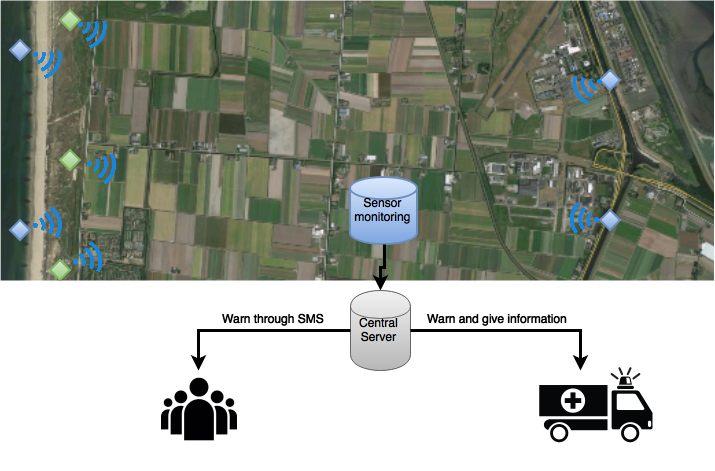
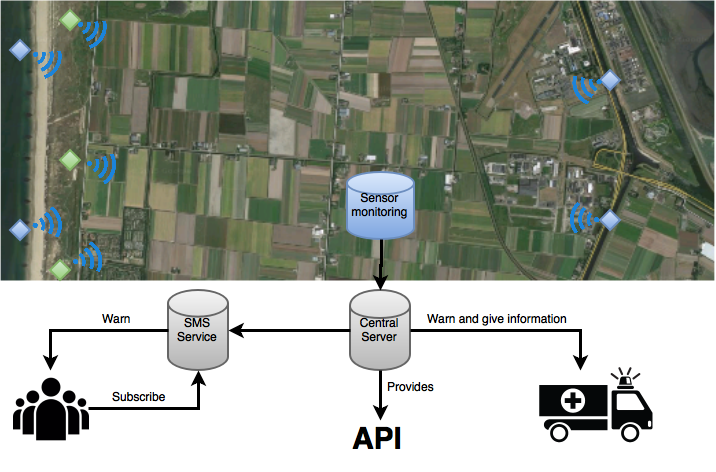
Changed a lot of stuff

diff --git a/2-business/business.tex b/2-business/business.tex
@@ -9,15 +9,15 @@ After this the product and its stakeholders will be explained. This chapter is c
 
 \section{Business opportunity}
 There are many natural disasters happening each year all over the world. Each year these disasters take lives, destroys a lot of properties, and cause social disturbance.
-Looking at, for example, the Indian ocean's tsunami in 2004, it looks that the damage could have been significantly reduced if the necessary people were warned\cite{tsunami10ylater, tsunamiwarnsavelives}.  %\We should add a reference here
+Looking for example at the Indian ocean's tsunami in 2004, it looks that the damage could have been significantly reduced if the necessary people were warned\cite{tsunami10ylater, tsunamiwarnsavelives}.  %\We should add a reference here
 
 In the future more floods are expected because of global warming\cite{climateincrease}. The rise of the sea level is a consequence of global warming. Another consequence is the increase of extreme weather events, for instance heavy rainfall. It is expected that natural disasters will cause 300 billion in losses annually in the upcoming decade\cite{disastercosts}. This justifies to invest a high amount of money to minor the losses of a flood. Not only the losses in terms of money, but more importantly lives, and also social impact.
 
-The increasing thread of the floods is the basis for our vision. \CompanyName has the following vision: No people in the world will be harmed by floods. They want to find solutions so floods does not take lives, cause social consequences, and damage properties.   
+The increasing thread of the floods is the basis for our vision. \CompanyName has the following vision: No people in the world will be harmed by floods. We want to find solutions so floods does not take lives, cause social consequences, and damage properties.   
 
-The mission of \CompanyName is design of a flood warning system in order to save lives and reduce costs. A next generation reliable flood monitoring and warning system will help lower the catastrophic impact of floods. The system will imminent floods and send out people in order to reduce the impact of a flood. In the future the system should be able to monitor other kinds of disasters and send out warnings. 
+The mission of \CompanyName is to design a flood warning system in order to save lives and reduce costs. A next generation reliable flood monitoring and warning system will help lower the catastrophic impact of floods. The system will predict imminent floods and send out people in order to reduce the impact of a flood. In the future the system should be able to monitor other kinds of disasters and send out warnings. 
 
-The Netherlands is a country that is situated for large parts(26\%) under the sea level\cite{holland}. Using dikes and other solutions they protect their country against the water. The increasing sea level causes extreme danger in the Netherlands. It is important that they can monitor how dangerous imminent floods are and take action if things are looking to wrong. If things go wrong people within the area should be warned in order to take action and safe their self, others, and their belongings.
+The Netherlands is a country that is situated for large parts(26\%) under the sea level\cite{holland}. Using dikes and other solutions they protect their country against the water. The increasing sea level causes extreme danger in the Netherlands. It is important that they can monitor how dangerous imminent floods are and take action if things are looking to wrong. These properties of the Netherlands make it an ideal market to start deploying our system. %If things go wrong, people within the area should be warned in order to take action and safe their self, others, and their belongings.
 % Maybe put the previous paragraph to the context?????
 
 \section{Business rationale}
@@ -85,10 +85,10 @@ It is important to evaluate the strengths and weaknesses of \CompanyName{}. Usin
 \newcommand{\Threats}{
 \SwotItems{
 	\item High hardware costs
-	\item Competitors will enter the market because of growing market
-	\item New competitors will enter the market
-	\item Climate change will forces the system to be improved over time.
-	\item Changes of the external systems that our system uses to properly communicate.
+	\item New competitors will enter the market because of a growing market
+	%\item New competitors will enter the market
+	\item Climate change will force the system to be improved over time
+	\item External parties that affect our system could change or stop
 	%\item The sizes of certain area{'}s to monitor can be too big to get a good and reliable view of them
 }
 }
@@ -147,7 +147,7 @@ The first subsystem (monitor the state of dykes and water levels) will consist o
 
 The second subsystem (analyze the data from the monitoring part to detect imminent floods) will analyze all the data from the sensors and data from weather forecasting service. Based on this data an algorithm will monitor continuously if there are dangerous situations.
 
-The third subsystem (warn governmental organizations and inhabitants in the danger area) will send warning messages when the algorithm identified a dangerous situations. The safety region \ign{---in Dutch Veiligheidsregio--- }will receive a warning message that an area is in danger. Information like position, area, sort of danger and amount of danger will be send. The safety region will be responsible to take action based on this information. Inhabitants can receive warnings via sirens, mobile phone, radio, television, and by UAV.
+The third subsystem (warn governmental organizations and inhabitants in the danger area) will send warning messages when the algorithm identified a dangerous situations. The safety region \ign{---in Dutch Veiligheidsregio--- }will receive a warning message that an area is in danger. Information like position, area, sort of danger and amount of danger will be send. The safety region will be responsible to take action based on this information. Inhabitants can receive warnings via sirens, mobile phone, radio, television. %, and by UAV
 
 The last subsystem (provides data to third party developers) will publish data that other companies can use to build applications. The data that will be published is mainly for provide guidance for emergency services and people which are in the dangerous area. 
 
@@ -181,6 +181,7 @@ The software architecture team of \CompanyName consists of six members. Creating
 \subsection{Development costs}
 The costs of developing the system is approximated in table \ref{table:develop-costs}, shown below.
 \newline
+
 \begin{table}[H]
 \pgfplotstabletypeset[%
 KeyValue,
@@ -224,7 +225,7 @@ The development is done by \CompanyName self. Each member of the project team as
 	Description & Costs \\
 	Hours & 9770 \\
 	Cost per hour & \EUR{}50 \\
-	Total cost & \EUR{}488,500 \\
+	Total cost & \EUR{}488.500 \\
 }\tdevcost
 
 \begin{table}[H]
@@ -236,7 +237,7 @@ The development is done by \CompanyName self. Each member of the project team as
 \end{table}
 
 \subsection{Hardware costs}
-Around 17,000 kilometres of dikes protect the Netherlands against flooding \cite{DMC}. 
+Around 17.000 kilometres of dikes protect the Netherlands against flooding \cite{DMC}. 
 The monitoring system consists of MEMS sensor modules (e.g. GeoBeads) with a claimed life time of 10 years, which are installed with conventional CPT push-in techniques. Three sensors are installed per cross-section and a cross-section is installed every 100 m.
 Each CPT push-in costs about \EUR{}200 per sensor (Feitsma,2002)\cite{TUDelftPHD}.%pp126
 The table below shows of this data.
@@ -258,13 +259,13 @@ The table below shows of this data.
 \end{table}
 
 This results in an installation cost of:
-Installation cost per km$=(350+200)\cdot10\cdot3\cdot(1+0.2)=\EUR{}16,830$\\
-Installation cost$=100*16,830=1.683,000$
+Installation cost per km$=(350+200)\cdot10\cdot3\cdot(1+0.2)=\EUR{}16.830$\\
+Installation cost$=100*16.830=1.683.000$
 
 \newcommand{\installationCosts}{1.683.000}
 
 The yearly maintenance and operation cost will be calculated as being a fraction of the installment cost.\\ 
-Maintenance cost$=0.2\cdot1,683,000=336,600$ per year %
+Maintenance cost$=0.2\cdot1.683.000=336.600$ per year %
 
 The system then needs several servers:
 \begin{itemize}
@@ -275,18 +276,18 @@ The system then needs several servers:
 	\item {Guidance server}	
 \end{itemize}
 
-There are four servers and each server costs $\EUR{}1,500$. To enhance the availability, the servers will be redundantly set up four times. Resulting in a hardware cost for the servers of\\
-Server cost$=4*1500*4=24,00$. 
+There are four servers and each server costs $\EUR{}1.500$. To enhance the availability, the servers will be redundantly set up four times. Resulting in a hardware cost for the servers of\\
+Server cost$=4*1500*4=24.000$. 
 The total hardware costs is shown in the table below.
 \begin{table}[H]
 	\pgfplotstabletypeset[
 		Costs
 	]{
 	Description & Cost\\
-	Installation costs & $\EUR{}$1,683,000\\
-	Maintenance costs & $\euro{}$336,600\\
+	Installation costs & $\EUR{}$1.683.000\\
+	Maintenance costs & $\euro{}$336.600\\
 	Server costs & $\euro{}$24.000\\
-	Total cost & $\euro{}$2,443,600\\
+	Total cost & $\euro{}$2.443.600\\
 }
 \caption{Total hardware cost}
 \label{table:total-hardw-cost}
@@ -300,23 +301,23 @@ The total costs for the system is calculated in the table below.\\
 Costs
 ]{%
 	Description & Cost\\
-	Software Architecture costs & \EUR{}157,500\\
+	Software Architecture costs & \EUR{}157.500\\
 	Development costs & $\euro{}$488.500\\
-	Hardware costs & $\euro{}$2,443,600\\
-	Total cost & $\euro{}$3,089,600\\
+	Hardware costs & $\euro{}$2.443.600\\
+	Total cost & $\euro{}$3.089.600\\
 }
 \caption{Total cost of the system}
 \label{table:totalcosts}
 \end{table}
-So the total costs of the system is \euro{}3,089,600\\
+So the total costs of the system is \euro{}3.089.600\\
 % Guntur: Doubled financial model sections?
 % \section{Financial model}
 % The financial model will be a low product price. This in order to price the product low in the market. A service description for maintenance will be offered. Also updates will be sold to the customer
 
 \section{Competitors}
-Siemens is a competitor that already has developed a flood-warning system in Belgium in 2006. When the system detects a imminent flood it sends a SMS to people that live near the rivers in order to warn them. The system is implemented in a small region, which consists of only 3 rivers. The total cost for this system were \euro{}230.000. Later on they continued engineering the system. The system uses sensor which measures: temperature, water pressure, and shifting. They participated with this system in the Urban Flood project from the EU. The strong point of this competitor is that they already have funding and also experience with building such a system. Siemens is the main competitor for \CompanyName{}. Their strength is that they already have a proven system in Belgium and have a lot of experience through participating in flood monitoring research projects. The opportunity for \CompanyName{} is Engineering a flexible system that can be used in the future for other kind of disasters. Further on by selling the product at a low selling price and profit on the maintenance work and upgrades the Netherlands will be interesting in using the product.
+Siemens is a competitor that already has developed a flood-warning system in Belgium in 2006. When the system detects an imminent flood it sends a SMS to people that live near the rivers in order to warn them. The system is implemented in a small region, which consists of only 3 rivers. The total costs for this system were \euro{}230.000. Later on they continued engineering the system. The system uses sensor which measures: temperature, water pressure, and shifting. They participated with this system in the Urban Flood project from the EU. The strong point of this competitor is that they already have funding and also experience with building such a system. Siemens is the main competitor for \CompanyName{}. Their strength is that they already have a proven system in Belgium and have a lot of experience through participating in flood monitoring research projects. The opportunity for \CompanyName{} is to engineer a flexible system that can be used in the future for other kind of disasters. Further on by selling the product at a low selling price and profit on the maintenance work and upgrades the Netherlands will be interesting in using the product.
 
-Further there are Universities that do research on flood warning systems. At the Malaysian Institute Information Technology they developed a product prototype of a system called Intelligent Flood Information System via SMS. Waterlevel sensors are the only one they used. When their is a flood they send a warning SMS to people that are within the area. In the future this could become a competitor if they create a start-up or sell the idea to a company.  
+Further there are Universities that do research on flood warning systems. At the Malaysian Institute Information Technology they developed a product prototype of a system called Intelligent Flood Information System via SMS. Waterlevel sensors are the only one they used. When there is a flood they send a warning SMS to people that are within the area. In the future this could become a competitor if they create a start-up or sell the idea to a company.  
 
 %\Joris can you put references in?
 

diff --git a/4-analysis/analysis.tex b/4-analysis/analysis.tex
@@ -1,7 +1,7 @@
 %!TEX root = ../report.tex
 \chapter{Analysis}
 \label{ch:analysis}
-This chapter describes the analysis. It lists the assumptions made about the system and it's environment. Next, an overview of the high-level design decisions is given.
+This chapter describes the analysis of the system. It lists the assumptions that are made about the system and its environment. After this, an overview of the high-level design decisions is given.
 
 \section{Assumptions}
 There are several assumptions made about the system and it's environment:
@@ -10,15 +10,13 @@ There are several assumptions made about the system and it's environment:
 	\begin{enumerate}
 	  \item The safety region / government has means to alert citizens in an area to evacuate.
 	  \item The safety region is informed about our system and will alert citizens if needed when our system alerts the safety region.
-	  \item People who are subscribed for flood warnings/guidance have a mobile phone that can receive text messages and MMS.
+	  \item People who are subscribed for flood warnings/guidance have a mobile phone that can receive text messages.
 	  \item Sensors can be placed in the water ways and dikes in locations where they can provide representative measurements.
 	  \item Information is available to the system with regards to the population density and terrain height in different areas.
-	  \item A flood will not reach further than 50 km. % see SEC-7
 	  \item Supplying information about the areas affected by the flood in a resolution of 5 by 5 km (as described in \ref{fr:10}) is sufficient for the government/safety region to make decisions regarding alerting and evacuating citizens.
 	  \item It is possible to predict the expected water level up to 12 hours in the future.
 	  \item A weather forecasting API is available that provides precipitation and wind data.
 	  \item The sensors are (in some way) connected to the system.
-	  \item The safety region provides an API, which can be used by the system to warn the safety region.
 	\end{enumerate}
 }
 
@@ -72,7 +70,7 @@ A higher score means a more favourable result. For example, a high score for cos
 
 \begin{table}[h]
 \begin{tabular}{L{0.2\textwidth} L{0.6\textwidth}}
-    \textbf{Name} 			& \textbf{Linux} \\ \toprule
+    \textbf{Name} 			& \textbf{Operating system} \\ \toprule
     \textbf{Decision} 		& \textbf{DEC-}\textbf{\nextNrRef{dn}} \\ \midrule \midrule
     \textbf{Status} 		& \textbf{New} \\ \midrule
     \textbf{Problem/Issue} 	& The warning system software for the natural disasters need a platform to work on.  \\ \midrule
@@ -89,7 +87,7 @@ A higher score means a more favourable result. For example, a high score for cos
 									Weight 				& 1 & 1 & 1 & 1 & 1 & 1 & 1 & \\ \hline
 									Linux 			 	& 4 & 4 & 4 & 4 & 4 & 4 & 5 & 29 \\
 									Windows 			& 3 & 2 & 3 & 2 & 3 & 3 & 1 & 17 \\
-									OpenBSD 		 	& 5 & 5 & 4 & 3 & 5 & 4 & 3 & 29 \\
+									OpenBSD 		 	& 5 & 4 & 4 & 3 & 5 & 4 & 3 & 28 \\
 								\end{tabular} \\
     \\ \bottomrule
 \end{tabular}
@@ -110,6 +108,10 @@ A higher score means a more favourable result. For example, a high score for cos
     \textbf{Decision} 		&  The sensors will send their data to the system using mobile broadband. Using cellphone towers to communicate with the system.\\ \midrule
     \textbf{Alternatives} 	& \textit{Landline}\\ 
     						& Connecting the sensors to the telephone network and use that network to communicate with the server.\\
+    						& \textit{Satellite}\\ 
+    						& Set up a satellite connection between the sensors and the system.\\
+    						& \textit{Direct lines}\\ 
+    						& Connection the sensors to the system by drawing a cable from all sensors to the system.\\
     						\midrule
     \textbf{Arguments} 		& \\
     						& 	\begin{tabular}{l|lllllll|l}
@@ -129,6 +131,7 @@ A higher score means a more favourable result. For example, a high score for cos
 \begin{tabular}{L{0.2\textwidth} L{0.6\textwidth}}
     \textbf{Name} 			& \textbf{Cassandra Database} \\ \toprule
     \textbf{Decision} 		& \textbf{DEC-}\textbf{\nextNrRef{dn}} \\ \midrule \midrule
+    \textbf{Status} 		& \textbf{New} \\ \midrule
     \textbf{Problem/Issue} 	& A reliable database, which is the best in scalability and availability is needed to store our data for further processing and analysis. \\ \midrule
     \textbf{Decision} 		& Smart Flood Monitoring system will use Cassandra, which will run on top of the Linux platform, to store great amount of data from huge sensor arrays needed to carry out analytics and logging.\\ \midrule
     \textbf{Alternatives} 	& \textit{Redis}\\ 
@@ -157,6 +160,7 @@ A higher score means a more favourable result. For example, a high score for cos
 % http://www.stevenswater.com/water_level_sensors/
  \textbf{Name} 			& \textbf{Type of water level sensor} \\ \toprule
  \textbf{Decision} 		& \textbf{DEC-}\textbf{\nextNrRef{dn}} \\ \midrule \midrule
+ \textbf{Status} 		& \textbf{New} \\ \midrule
  \textbf{Problem/Issue} 	& To measure the water level in the water ways and along the coast, a sensor is needed to measure the water level. \\ \midrule
  \textbf{Decision} 		& The system will use pressure sensors to measure the water level. Pressure sensors are submerged at a fixed level in the water body. By measuring the pressure on the sensor of the water above it, these types of sensors are able to determine the water level. \\ \midrule
  \textbf{Alternatives} 	
@@ -191,28 +195,23 @@ A higher score means a more favourable result. For example, a high score for cos
 
 \begin{table}
 \begin{tabular}{L{0.2\textwidth} L{0.6\textwidth}}
- \textbf{Name} 			& \textbf{Cloud service provider} \\ \toprule
+ \textbf{Name} 			& \textbf{Server} \\ \toprule
  \textbf{Decision} 		& \textbf{DEC-}\textbf{\nextNrRef{dn}} \\ \midrule \midrule
- \textbf{Problem/Issue} 	& To connect all sensors and to process all the data, we need computing power. \\ \midrule
- \textbf{Decision} 		& The system will use Cloud VPS as the cloud provider. This provider is located in europe and can provide all services we need. This also means the privacy of the data is assured. \\ \midrule
+ \textbf{Status} 		& \textbf{New} \\ \midrule
+ \textbf{Problem/Issue} & To connect all sensors and to process all the data, we need computing power and storage space. \\ \midrule
+ \textbf{Decision} 		& We will use our own server park. When managing our own server park, we have more technical freedom. Especially when our system will scale up, it can be profitable to maintain our own server park instead of a cloud solution.  \\ \midrule
  \textbf{Alternatives} 	
-    					  &\textit{Microsoft Azure}\\ 
-    					    & Microsoft Azure gives a good performance service. However the big disadvantage of this provider is that is not located in europe. This means different laws could apply to the data than in europe. \\
-    					  &\textit{Amazon}\\
-    					    & The pricing and performance of Amazon is good. Unfortunately the same as for Azure also applies to Amazon. We can't be sure where our data is stored.\\
-    					  &\textit{Own server implementation}\\
-    					    & Another option is to maintain our own server park. This will give us more freedom in terms of technical details. However, it will be way more expensive to maintain our own park. \\
+    					&\textit{Cloud computing}\\ 
+    					& There are different cloud computing providers in the world. An advantage of cloud computing is the degree of scalability. However, when storing data at a cloud provider, we can never be sure if we are the only ones with access to our data.\\
 \textbf{Arguments} 		& For this decision we will not take resilience into account. Resilience can also be seen as reliability and interoperability. \\
    						& 	\begin{tabular}{l|lllllll|l}
 							& 		\rot{Reliability} & \rot{Resilience} & \rot{Performance} & \rot{Interopertability} & \rot{Security} & \rot{Scalability} & \rot{Cost} & \rot{\textbf{Score}} \\ \hline 
 							% 								rel res perf int sec sca cost
 									Weight 					& 3 & - & 2 & 2 & 3 & 2 & 2 & \\ \hline
-									Cloud VPS 		 		& 4 & - & 4 & 3 & 4 & 5 & 3 & 54\\
-									Azure				 	& 4 & - & 4 & 3 & 3 & 5 & 3 & 51\\
-									Amazon			 	 	& 4 & - & 4 & 3 & 3 & 5 & 3 & 51\\
-									Own server park 		& 4 & - & 4 & 5 & 4 & 3 & 1 & 50\\
+									Cloud computing 		& 4 & - & 4 & 3 & 3 & 5 & 3 & 51\\
+									Own server park 		& 3 & - & 4 & 5 & 4 & 3 & 4 & 53\\
 								\end{tabular} \\ \bottomrule
 \end{tabular}
-\caption{Decision -- Cloud computing provider}
+\caption{Decision -- Server park}
 \label{table:waterlevelsensortype}
 \end{table}

diff --git a/3-requirements/architecturalvision.tex b/3-requirements/architecturalvision.tex
@@ -3,13 +3,13 @@
 \begin{figure}[hb!]
 %\centering
 \includegraphics[keepaspectratio=true,width=0.9\textwidth]{images/archVision.png}
-%\caption{Schematic overview of the flood monitoring system}
-%\label{fig:architectural-vision}
+\caption{Schematic overview of the flood monitoring system}
+\label{fig:architectural-vision}
 \end{figure}
 
 The smart flood monitoring system consists of multiple parts. These are represented in figure \ref{fig:architectural-vision}. First of all there is the monitoring part. This part monitors the current state of the environment. To achieve this, we need a lot of data. This data is obtained by sensors and weather data. We use sensors to get the current water level of waterways, these water sensors are shown in the figure as blue squares. We also measure the density and structure of dikes, this is done by pressure meters, temperature meters and tilt meters. These are represented as green squares. The data that is obtained through all sensors will be send to the central server. Here the information will be processed. The system then determines if there is an imminent flood.
 
-In case of an imminent flood a warning will be issued to the government and the citizens who live in the threatened area. We do this by issuing a warning to the government. In their turn the government uses their infrastructure to warn the citizens. In the Netherlands this infrastructure consists of a siren system and an SMS-system. Besides this people can also apply for our SMS service. People who are subscribed to this service will receive a text message with more information about the (imminent) flood. 
+In case of an imminent flood a warning will be issued to the government and the citizens who live in the threatened area. We do this by issuing a warning to the government. In their turn the government uses their infrastructure to warn the citizens. In the Netherlands this infrastructure consists of a siren system and an SMS-system. Besides this people can also apply for our SMS service. People who are subscribed to this service will receive a text message with more information about the imminent flood. 
 
-In case of a real flood the citizens who subscribed to our service will receive a MMS message with a route to a safe area. These MMS messages contain generic routes to get to a safe area. This means that when a flood happens, the same map is send to different users.
+If people want to have more information on an imminent flood, they can always access the API. This API gives relevant raw data about imminent floods. To make a usable interface for the citizens, we want to cooperate with third party developers. These developers could create an application that can guide citizens to a save area.
 %http://www.waterforum.net/Artikel/PrintArtikel.aspx?ID=9132

diff --git a/3-requirements/evolutionrequirements.tex b/3-requirements/evolutionrequirements.tex
@@ -2,15 +2,15 @@
 \section{Evolution requirements}
 %Typical change-cases with respect to the environement, the features and the technology of the system
 %http://www.agilemodeling.com/artifacts/changeCase.htm
-When establishing the project, architects of the system listed a certain number of requirements which describe the features of the system. But due to environement changes and end-users requests for example the requirements evolve.
+When establishing the project, architects of the system listed a certain number of requirements which describe the features of the system. But due to environmental changes and end-users requests the requirements evolve.
 
 \textbf{ER-1 Changes in the display of the map } \\
-\textit { Evolution of FR-19 } Citizens who subscribed for flood warnings get a map with specific route information (according to their location) to a safe area through the app/API (in association with Google Map). \\
+\textit { Evolution of FR-19 } Citizens who subscribed for flood warnings get a map with specific route information (according to their location) to a safe area through the API (in association with Google Map). \\
 
-\textbf{ER-2 : Adding of external input} Citizens can contribute to the guidance by giving extra information(for example if they identified a safe route near their location) but this information will be check by an operator (thanks to photograph by the UAV's for example). \\
+\textbf{ER-2 : Adding of external input} Citizens can contribute to the guidance by giving extra information(for example if they identified a safe route near their location) but this information will be checked by an operator (thanks to photograph by the UAV's for example). \\
 
-\textbf{ER-3 : New OS } The system is able to work with others OS than Linux : Windows, MacOS. %Portability
+\textbf{ER-3 : New OS } The system is able to work with other operating systems than Linux, for example Windows and MacOS. %Portability
 
 %\textbf{ER-3} The system is able to work on several mobile devices platforms : Android, iOs, Windows Phone. \\ IN CASE OF AN APP
 
-\textbf{ER-4 : New sensors } The system is able to work with new sensors technlogies growing on the market over the years.
+\textbf{ER-4 : New sensors } The system is able to work with new sensors technologies, which are coming on the market over the years.

diff --git a/3-requirements/storiesandusecases.tex b/3-requirements/storiesandusecases.tex
@@ -48,12 +48,12 @@ UCTable
 	Precondition & The sensor is connected to a processing unit \\
 	Main success scenario & \compactList{enumerate}{%
 			\item The sensor does a measurement
-			\item The sensor sends the data to a processing unit
-			\item The processing unit normalizes the received data
-			\item The processing unit sends the normalized data to the main processing node
-			\item The main processing node stores the data in the database
+			\item The sensor sends the data to a monitoring unit
+			\item The monitoring unit normalizes the received data
+			\item The monitoring unit sends the normalized data to the database
+			\item The database stores the data
 	}\\
-	Postcondition & The system received and stored the sensor data \\
+	Postcondition & The database received and stored the sensor data \\
 	Alternatives & \compactList{itemize}{%
 			\item[2a.] The data can't be sent. \\
 			Data will be lost \\
@@ -131,7 +131,7 @@ UCTable
 ]{%
 	value & description \\
 	Number & \req{uc}\\
-	Description & The central processing unit calculated the probability of a flood \\
+	Description & The central processing unit calculates the probability of a flood \\
 	Stakeholders and interests & \compactList{itemize}{%
 			\item \textbf{Developers}: Developers have to work on this part
 			\item \textbf{Emergency Services}: Emergency services want to know when a flood warning is triggered

diff --git a/0-predocument/authorRevisionpage.tex b/0-predocument/authorRevisionpage.tex
@@ -14,7 +14,6 @@
 
 \section*{Revision History}
 
-\todo{Is the "all" ok? or do we need to split this up in multiple entries from all authors?}
 \begin{tabular}{L{\tw{0.1}} L{\tw{0.2}} L{\tw{0.1}} L{\tw{0.5}}}
     \textbf{Version} & \textbf{Author} &  \textbf{Date} & \textbf{Description}\\ \toprule
     
@@ -57,8 +56,9 @@
             & Putra     & 24-09-15 & Improved stakeholder with new quality attributes. \\
             &           &          & Added key-drivers after stakeholder. \\
             & Menninga  & 26-09-15 & Complemented and improved non-functional requirement section \\
-                        &           &          & Removed some obsolete functional requirements \\
-                        &           &          & Improved risk assessment section \\
+                        &          &          & Removed some obsolete functional requirements \\
+                        &          &          & Improved risk assessment section \\
             & Putra     & 26-09-15 & Business rationale, chapter 5,6,7. \\
+            & Brandsma  & 27-09-15 & Improved some figures. Improved chapter 4. Reviewing. \\
     \bottomrule
 \end{tabular}

diff --git a/appendices/timetracking.tex b/appendices/timetracking.tex
@@ -57,7 +57,7 @@
 	Putra & Coaching session, meetings, presentation prep., improving business rationale, review chapter 2, working on chapter 5,6,7 & 12 \\ \midrule
 	Fakambi & & \\ \midrule
 	Schaefers & Researched on sensors and other EWS's. Then created the system architecture model diagram and vision diagram for the presentation I had to present in. Created/improved other diagrams. Researched about the costs of these kinds of systems and created/enhanced the business cost section. & 20 \\ \midrule
-	Brandsma & Coaching session, Meeting, Reviewing group 1, architectural vision, use-cases & 10\\ \midrule
+	Brandsma & Coaching session, meetings , reviewing group 1, architectural vision, use-cases, reviewing, improving chapter 4 & 15.5\\ \midrule
 	Menninga & Coaching session, presentation prep., meeting, improvements FR and risks, review ch. 4 & 11.0 \\ \midrule
 \end{tabular}
 
